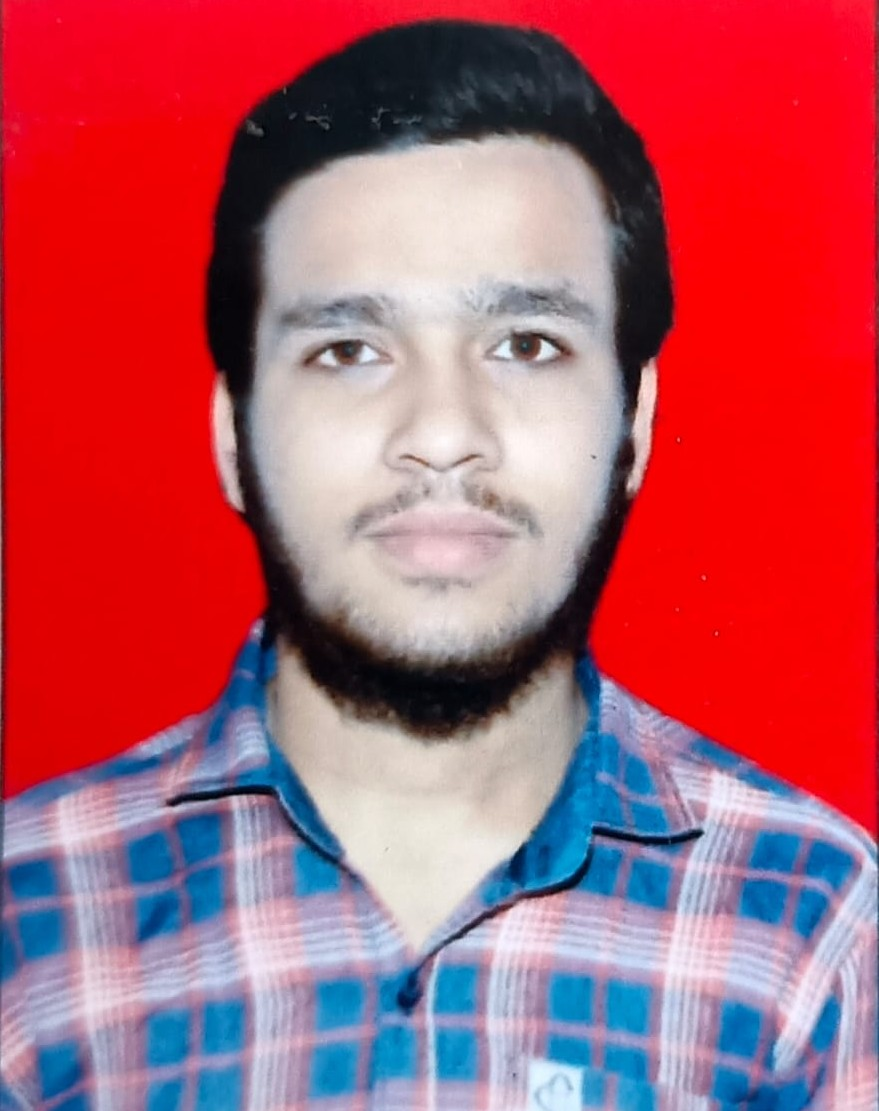
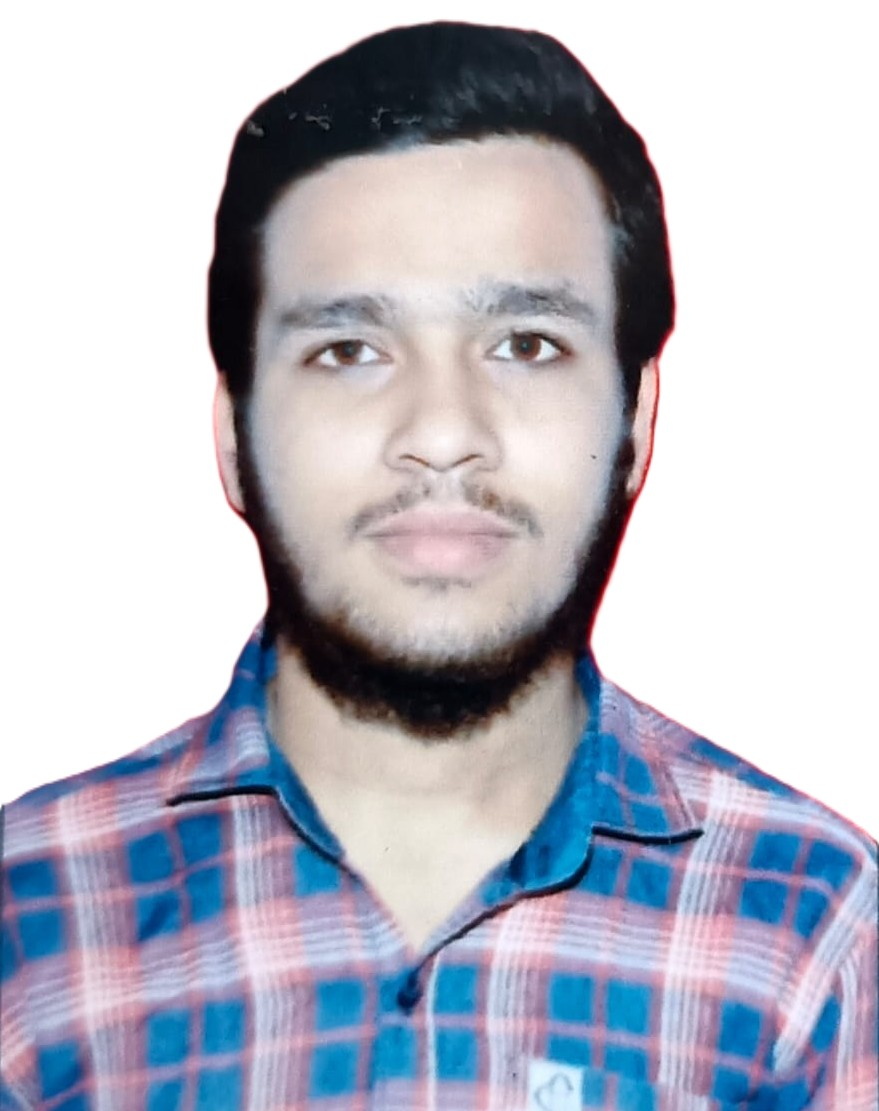
edit

diff --git a/Project/Porfolio/index.html b/Project/Porfolio/index.html
@@ -28,7 +28,7 @@
             <a href="https://wa.me/+918956507490" target="_blank"> <img src="https://upload.wikimedia.org/wikipedia/commons/thumb/6/6b/WhatsApp.svg/1022px-WhatsApp.svg.png" alt="whatsapp"> </a>
         </div>
         <section id="banner">
-            <img src="../Assets/myphoto.jpg" alt="">
+            <img class="img" src="../Assets/myphoto.jpg" alt="">
             <h2>Mohammed Kaif</h2>
             <h3>Full Stack Java developer</h3>
             <p> I'm Mohammed Kaif, a dedicated professional who recently graduated with a degree in BSc-IT and is currently focused on mastering Java Full Stack Development. My academic journey has equipped me with a solid foundation in software development principles and programming languages. I am currently honing my skills in Java, Spring Boot, and front-end frameworks like React to create scalable and efficient web applications.</p>
@@ -45,11 +45,11 @@
             <div class="education">
                 <h3 class="etitle">EDUCATION</h3>
                 <div class="degree">
-                    <h2>BScIT</h2>
+                    <h3>BScIT</h3>
                     <p>University of Mumbai,2024</p>
                 </div>
                 <div class="degree">
-                    <h2>HSC</h2>
+                    <h3>HSC</h3>
                     <p>Maharashtra State Board,2021</p>
                 </div>
             </div>
@@ -87,17 +87,30 @@
         <h2 class="title">CONTACT</h2>
 
         <section id="contact">
-            <h3>Email: <a href="mailto:dalvikaif@gmail.com">dalvikaif@gmail.com</a> </h3>
-            <h3>Call:<a href="tel:+91 8956507490">+91 8956507490</a></h1>
-            <div class="socialmedia">
-                <a href="https://github.com/MohammedKaif278" ><i class="ri-github-fill"></i></a>
-                <a href="https://www.linkedin.com/in/mohammed-kaif-dalvi-b62040291/" ><i class="ri-linkedin-fill"></i></a>
-            </div>
+           
+            <button>
+                 <a href="mailto:dalvikaif@gmail.com"><i class="ri-mail-fill"> Email Me</i></a>
+            </button>
+            <button>
+                 <a href="tel:+91 8956507490"><i class="ri-phone-fill"> Call Me</i> </a>
+            </button>
+            
+                <button>
+
+                    <a href="https://github.com/MohammedKaif278" ><i class="ri-github-fill"> GitHub</i></a>
+                </button>
+
+                <button>
+
+                    <a href="https://www.linkedin.com/in/mohammed-kaif-dalvi-b62040291/" ><i class="ri-linkedin-fill"> LinkedIn</i></a>
+                </button>
+            
         </section>
     </main>
 
     <footer>
-        This page belongs to MK Dalvi &copy;2025
+        <p>Made by Mohammed Kaif</p>
+        <p>Copyrights &copy; 2025</p> 
     </footer>
 </body>
 </html>

diff --git a/Project/Porfolio/style.css b/Project/Porfolio/style.css
@@ -14,9 +14,13 @@ header{
     padding: 20px 30px;
     justify-content: space-between;
     align-items: center;
+    
 }
 
 
+.logo:hover{
+    transform: scale(1.05);
+}
 
 .logo>p{
     font-size: 48px;
@@ -26,6 +30,7 @@ header{
 
 .logo>p>span{
     color: red;
+    font-size: 36px;
 }
 
 .menu{
@@ -39,10 +44,14 @@ header{
     color: white;
     text-decoration: none;
     font-size: 24px;
+    
 }
 
-.menu>li>a:hover{
-    color: blue;
+.menu>li:hover{
+    
+    transform: scale(1.1);
+    
+    
 }
 
 #banner{
@@ -59,10 +68,10 @@ color: white;
 }
 
 #banner>img{
-    height: 35%;
+    height: 45%;
     width: 15%;
-    border-radius: 100%;
-    box-shadow: 3px 5px 30px white;
+    border-radius: 30px;
+    
 }
 
 #banner>h2{
@@ -76,6 +85,11 @@ color: white;
     
 }
 
+#banner,h2:hover{
+    transform: scale(1.05);
+    color: red;
+    
+}
 .title{
     text-align: center;
     margin: 50px 0px;
@@ -186,16 +200,18 @@ color: white;
 }
 
 #contact{
-    margin: 20px auto;
+    margin: 30px auto;
     max-width: 1280px;
-    box-shadow: 2px 3px 10px ;
+    box-shadow: 4px 6px 20px ;
     width: 400px;
     display: flex;
-    flex-direction: column;
+    flex-wrap: wrap;
+    
     justify-content: center;
-    color: white;
+    align-items: center;
+    color: black;
     font-size: 24px;
-    padding: 50px 10px;
+    padding: 40px 10px;
     border-radius: 20px;
     gap: 10px;
     text-decoration: none;
@@ -207,22 +223,34 @@ color: white;
      color: green;
 }
 
-#contact>h3>a:hover{
-    transform: scale(2.5);
-    
-    color: red;
-
+#contact>button{
+    width: 120px;
+    border-radius: 10px;
+    padding: 4px;
+    color: black;
+    background-color: transparent;
+   border-color: yellow;
 }
 
-.socialmedia>a{
+#contact>button>a{
     color: white;
-    font-size: 24px;
+    
+    
 }
+
+
+#contact>button:hover{
+    transform: scale(1.05);
+    box-shadow: 2px 3px 15px ;
+    background-color: black;
+    
+}
+
 
 a{
     text-decoration: none;
     color: grey;
-    font-size: 20px;
+    font-size: 18px;
     
 }
 
@@ -242,7 +270,7 @@ a{
 }
  .floating-whatsapp img:hover {
       transform: scale(1.1);
-      box-shadow: 2px 3px 20px ;
+      
     }
 
 footer{
